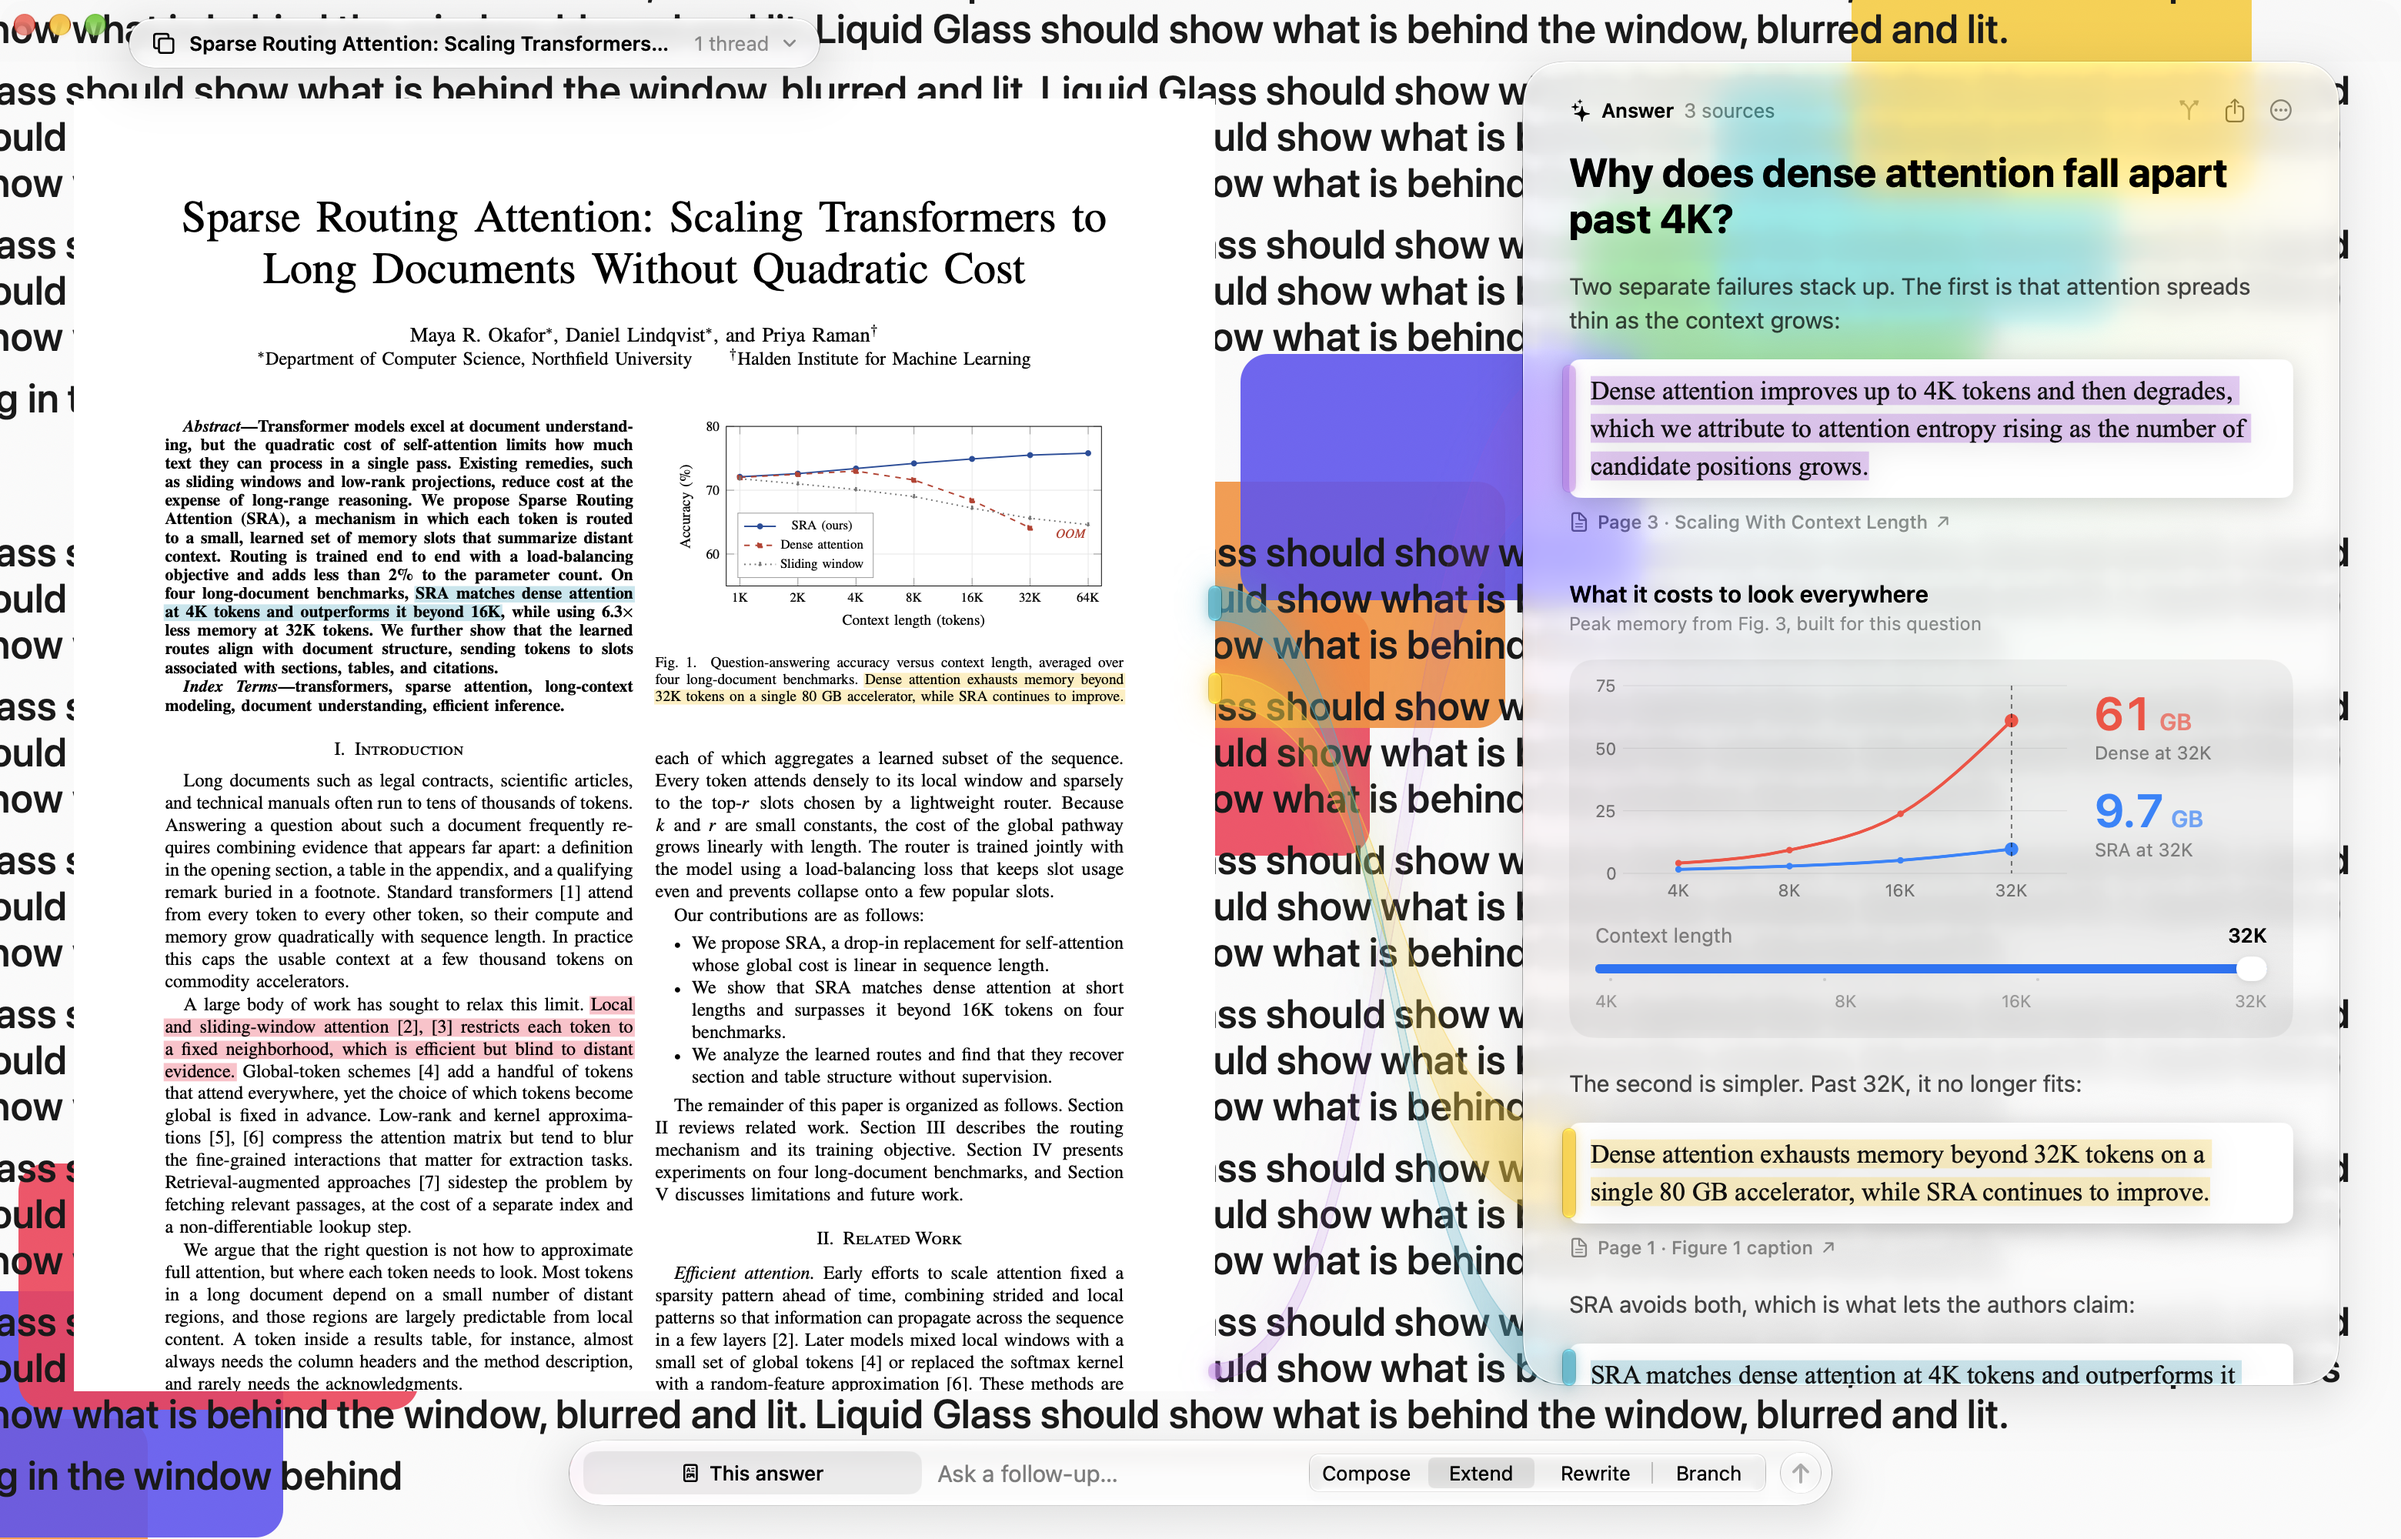
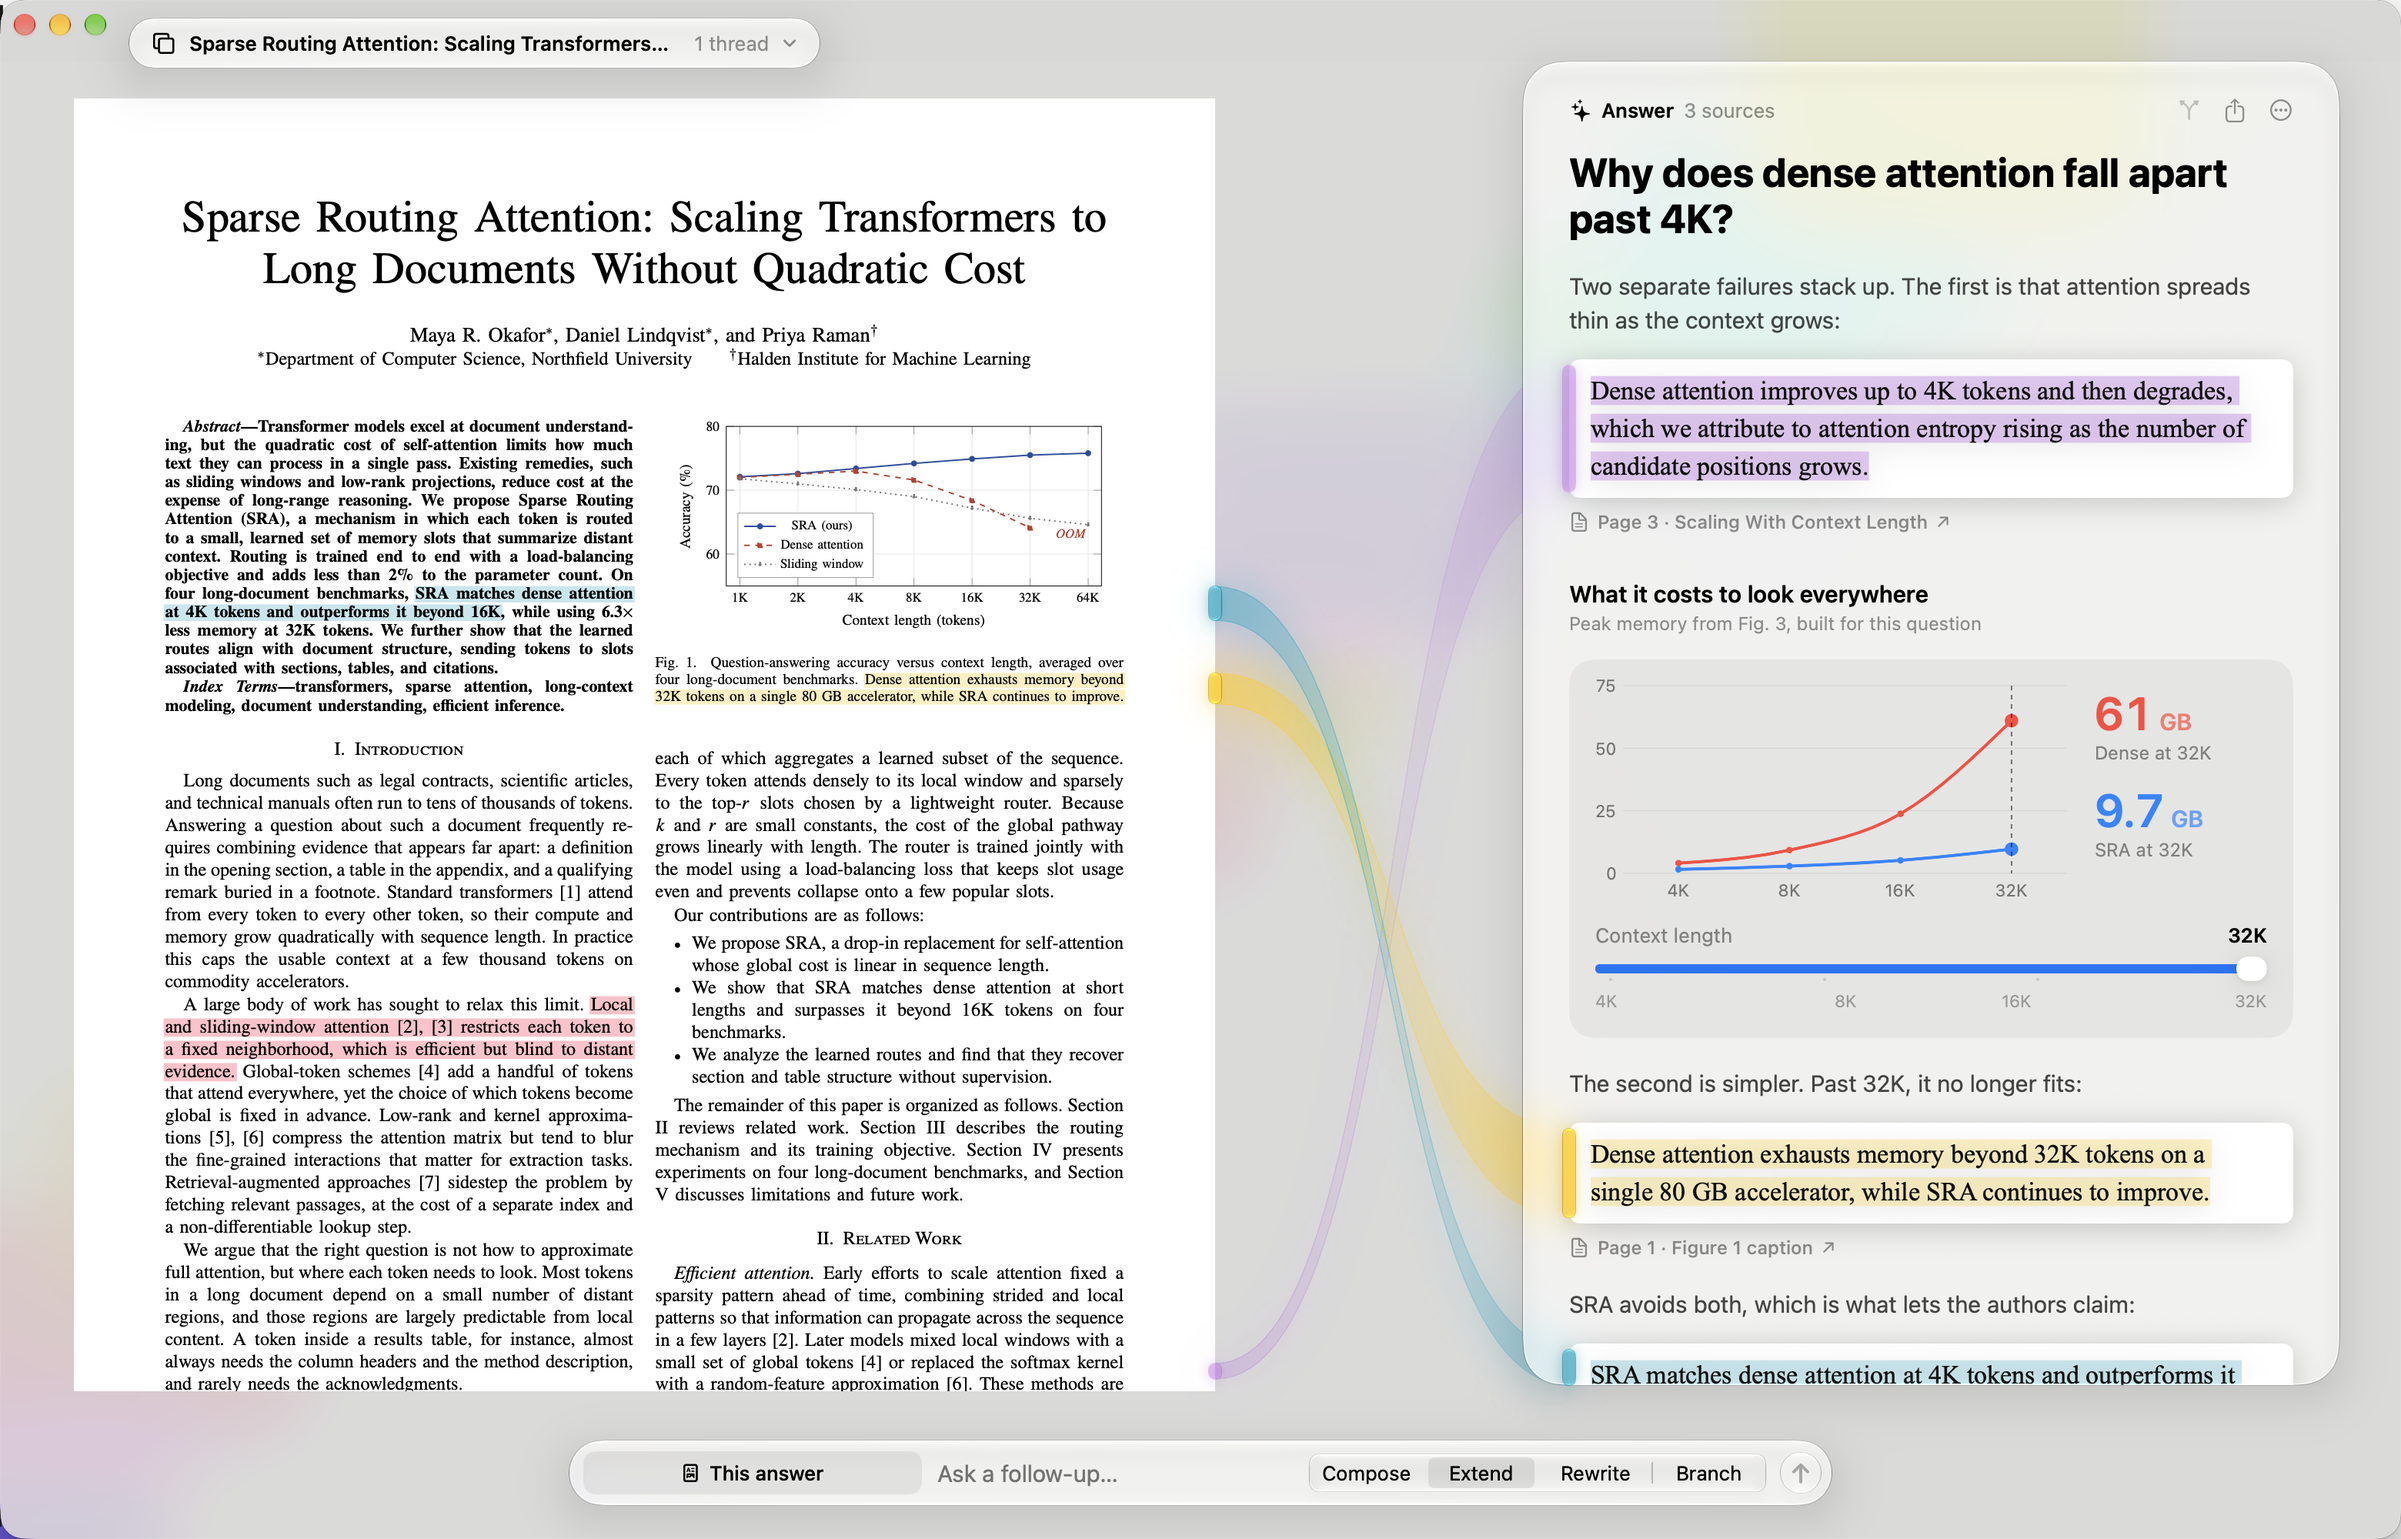
Frosted backdrop by default, with Dimmed and Clear options
A behind-window blur (NSVisualEffectView, underWindowBackground) with a
light dim now sits under the paper and glass, so the desktop's color comes
through without sharp see-through text. View > Backdrop picks Frosted
(default), Dimmed (the Figma dark space) or Clear. Window shadow returns
for Frosted and Dimmed.

diff --git a/Sources/PaperCompanion/SpaceView.swift b/Sources/PaperCompanion/SpaceView.swift
@@ -10,7 +10,7 @@ struct SpaceView: View {
             let pdfWidth: CGFloat = min(820, max(520, geo.size.width - sheetWidth - 64 - 64 - 160))
 
             ZStack(alignment: .topLeading) {
-                if model.dimBackdrop { SpaceBackdrop() }
+                SpaceBackdrop(backdrop: model.backdrop)
                 // A faint strip along the top, so the window can still be dragged.
                 Color.primary.opacity(0.01)
                     .frame(height: 40)
@@ -82,25 +82,60 @@ struct SpaceView: View {
             .coordinateSpace(.named("space"))
         }
         .ignoresSafeArea()
-        .background(TransparentWindow())
+        .background(TransparentWindow(hasShadow: model.backdrop != .clear))
         .containerBackground(.clear, for: .window)
+        .preferredColorScheme(model.backdrop == .dimmed ? .dark : nil)
         .sheet(isPresented: $model.showKeySheet) { APIKeySheet(model: model) }
     }
 }
 
-/// Optional (View ▸ Dim Behind Window): a see-through wash that calms a busy desktop. Off by default,
-/// so the window is fully transparent and the glass shows whatever is really behind it.
+/// The window's own background. Frosted: the desktop, blurred behind the window, with a light dim.
+/// Dimmed: the same blur under a deep blue-black wash, like the Figma "space". Clear: nothing.
 struct SpaceBackdrop: View {
+    let backdrop: Backdrop
+    @Environment(\.colorScheme) private var scheme
+
     var body: some View {
-        Rectangle()
-            .fill(.background.opacity(0.55))
-            .ignoresSafeArea()
-            .allowsHitTesting(false)
+        ZStack {
+            if backdrop != .clear {
+                BehindWindowBlur()
+                switch backdrop {
+                case .frosted:
+                    Color.black.opacity(scheme == .dark ? 0.25 : 0.05)
+                case .dimmed:
+                    LinearGradient(colors: [Color(red: 0.04, green: 0.06, blue: 0.13).opacity(0.78),
+                                            Color(red: 0.07, green: 0.06, blue: 0.14).opacity(0.70)],
+                                   startPoint: .topLeading, endPoint: .bottomTrailing)
+                case .clear:
+                    EmptyView()
+                }
+            }
+        }
+        .ignoresSafeArea()
+        .allowsHitTesting(false)
     }
+}
+
+/// A behind-window blur, the way standard macOS windows get their frosted, desktop-tinted background.
+struct BehindWindowBlur: NSViewRepresentable {
+    func makeNSView(context: Context) -> NSVisualEffectView {
+        let v = NSVisualEffectView()
+        v.blendingMode = .behindWindow
+        v.material = .underWindowBackground
+        v.state = .active
+        v.wantsLayer = true
+        v.layer?.cornerRadius = 16
+        v.layer?.cornerCurve = .continuous
+        v.layer?.masksToBounds = true
+        return v
+    }
+    func updateNSView(_ v: NSVisualEffectView, context: Context) {}
 }
 
 /// Makes the hosting NSWindow transparent, so Liquid Glass samples the desktop and other windows.
 struct TransparentWindow: NSViewRepresentable {
+    var hasShadow: Bool
+
     func makeNSView(context: Context) -> NSView {
         let view = NSView()
         DispatchQueue.main.async { configure(view.window) }
@@ -110,10 +145,15 @@ struct TransparentWindow: NSViewRepresentable {
         DispatchQueue.main.async { configure(view.window) }
     }
     private func configure(_ window: NSWindow?) {
-        guard let window, window.isOpaque else { return }
-        window.isOpaque = false
-        window.backgroundColor = .clear
-        window.hasShadow = false
+        guard let window else { return }
+        if window.isOpaque {
+            window.isOpaque = false
+            window.backgroundColor = .clear
+        }
+        if window.hasShadow != hasShadow {
+            window.hasShadow = hasShadow
+            window.invalidateShadow()
+        }
     }
 }
 

diff --git a/Sources/PaperCompanion/AppModel.swift b/Sources/PaperCompanion/AppModel.swift
@@ -55,9 +55,10 @@ final class AppModel {
     var errorMessage: String?
     var showKeySheet = false
     var showThreadList = false
-    /// View ▸ Dim Behind Window. Off: the window is clear and the glass shows the real desktop.
-    var dimBackdrop = UserDefaults.standard.bool(forKey: "dimBackdrop") {
-        didSet { UserDefaults.standard.set(dimBackdrop, forKey: "dimBackdrop") }
+    /// View ▸ Backdrop. Frosted (default) blurs the desktop behind the window; Dimmed is the darker
+    /// "space" from the Figma design; Clear shows the desktop as it is.
+    var backdrop = Backdrop(rawValue: UserDefaults.standard.string(forKey: "backdrop") ?? "") ?? .frosted {
+        didSet { UserDefaults.standard.set(backdrop.rawValue, forKey: "backdrop") }
     }
 
     let geometry = SpaceGeometry()
@@ -65,6 +66,12 @@ final class AppModel {
 
     init() {
         pdf.model = self
+        // Test flag: `--backdrop frosted|dimmed|clear`.
+        let args = CommandLine.arguments
+        if let i = args.firstIndex(of: "--backdrop"), args.indices.contains(i + 1),
+           let b = Backdrop(rawValue: args[i + 1]) {
+            backdrop = b
+        }
     }
 
     var openThread: PaperThread? { threads.first { $0.id == openThreadID } }

diff --git a/Sources/PaperCompanion/PaperCompanionApp.swift b/Sources/PaperCompanion/PaperCompanionApp.swift
@@ -59,7 +59,9 @@ struct PaperCompanionApp: App {
                 Button("Open Sample Paper") { model.openSample() }
             }
             CommandGroup(after: .toolbar) {
-                Toggle("Dim Behind Window", isOn: Binding(get: { model.dimBackdrop }, set: { model.dimBackdrop = $0 }))
+                Picker("Backdrop", selection: Binding(get: { model.backdrop }, set: { model.backdrop = $0 })) {
+                    ForEach(Backdrop.allCases) { Text($0.label).tag($0) }
+                }
             }
             CommandGroup(after: .appSettings) {
                 Button("Claude API Key…") { model.showKeySheet = true }

diff --git a/Sources/PaperCompanion/Models.swift b/Sources/PaperCompanion/Models.swift
@@ -113,6 +113,19 @@ struct PaperArchive: Codable {
     var openThreadID: UUID?
 }
 
+/// What sits behind the paper and the glass (View ▸ Backdrop).
+enum Backdrop: String, CaseIterable, Identifiable {
+    case frosted, dimmed, clear
+    var id: String { rawValue }
+    var label: String {
+        switch self {
+        case .frosted: "Frosted"
+        case .dimmed: "Dimmed"
+        case .clear: "Clear"
+        }
+    }
+}
+
 /// One hue per source. Matches the Figma palette (purple, yellow, teal, pink, ...).
 enum SourcePalette {
     static let rgb: [(Double, Double, Double)] = [

diff --git a/README.md b/README.md
@@ -5,9 +5,9 @@ answer composed from the paper itself: every quote is the paper's own words, hig
 color as its source and joined to it by a beam. Design: Figma file "Preview_v2", direction D "Parallel space".
 
 Rule of the look: anything the authors wrote is paper; anything the AI made is Liquid Glass.
-The window itself is transparent, so the glass shows (blurred) whatever is really behind it and
-follows light and dark mode. View ▸ Dim Behind Window adds a soft wash if the desktop is too busy.
-Drag the window by its top edge.
+The window's background is the desktop, blurred ("Frosted"), so the glass on top picks up real
+color and follows light and dark mode. View ▸ Backdrop switches between Frosted (default), Dimmed
+(the dark "space" from the Figma design) and Clear (no background at all). Drag the window by its top edge.
 
 ## Run it
 
@@ -33,6 +33,7 @@ The first time you ask a question, the app asks for your Claude API key and save
 ## Test flags
 
 - `PaperCompanion --selftest <pdf>` checks that known sentences are found in the sample paper.
+- `--backdrop frosted|dimmed|clear` picks the backdrop for that launch.
 - `--appearance dark|light` previews the app in a mode other than the Mac's own.
 - `--open <pdf> --demo` runs a canned answer through the real pipeline (no API call, nothing saved).
 
